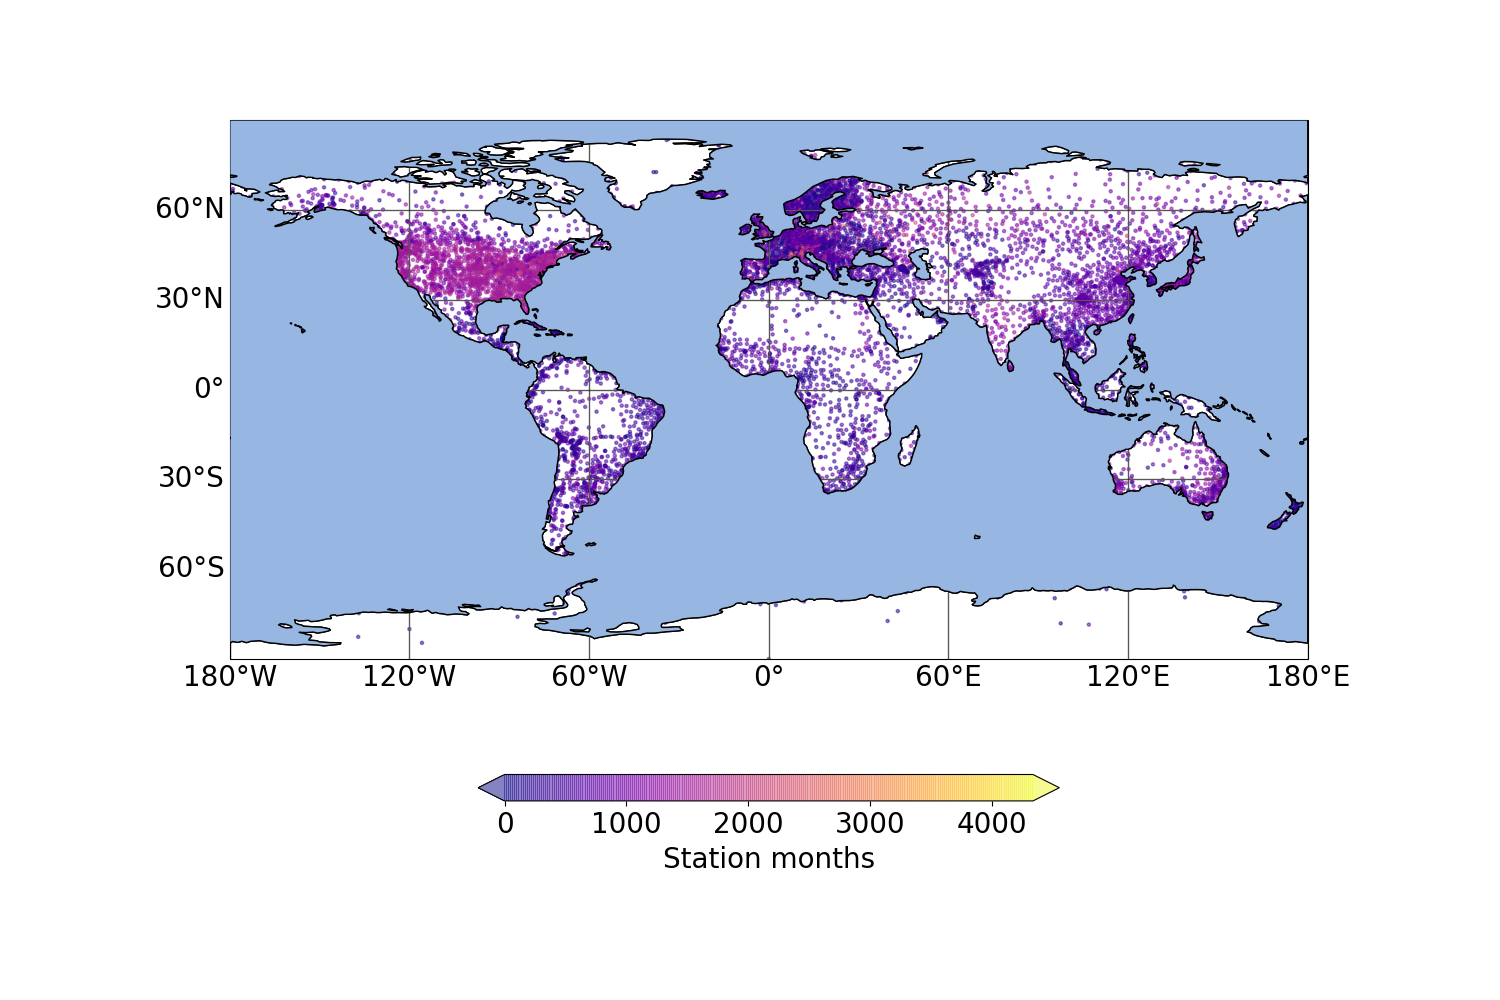
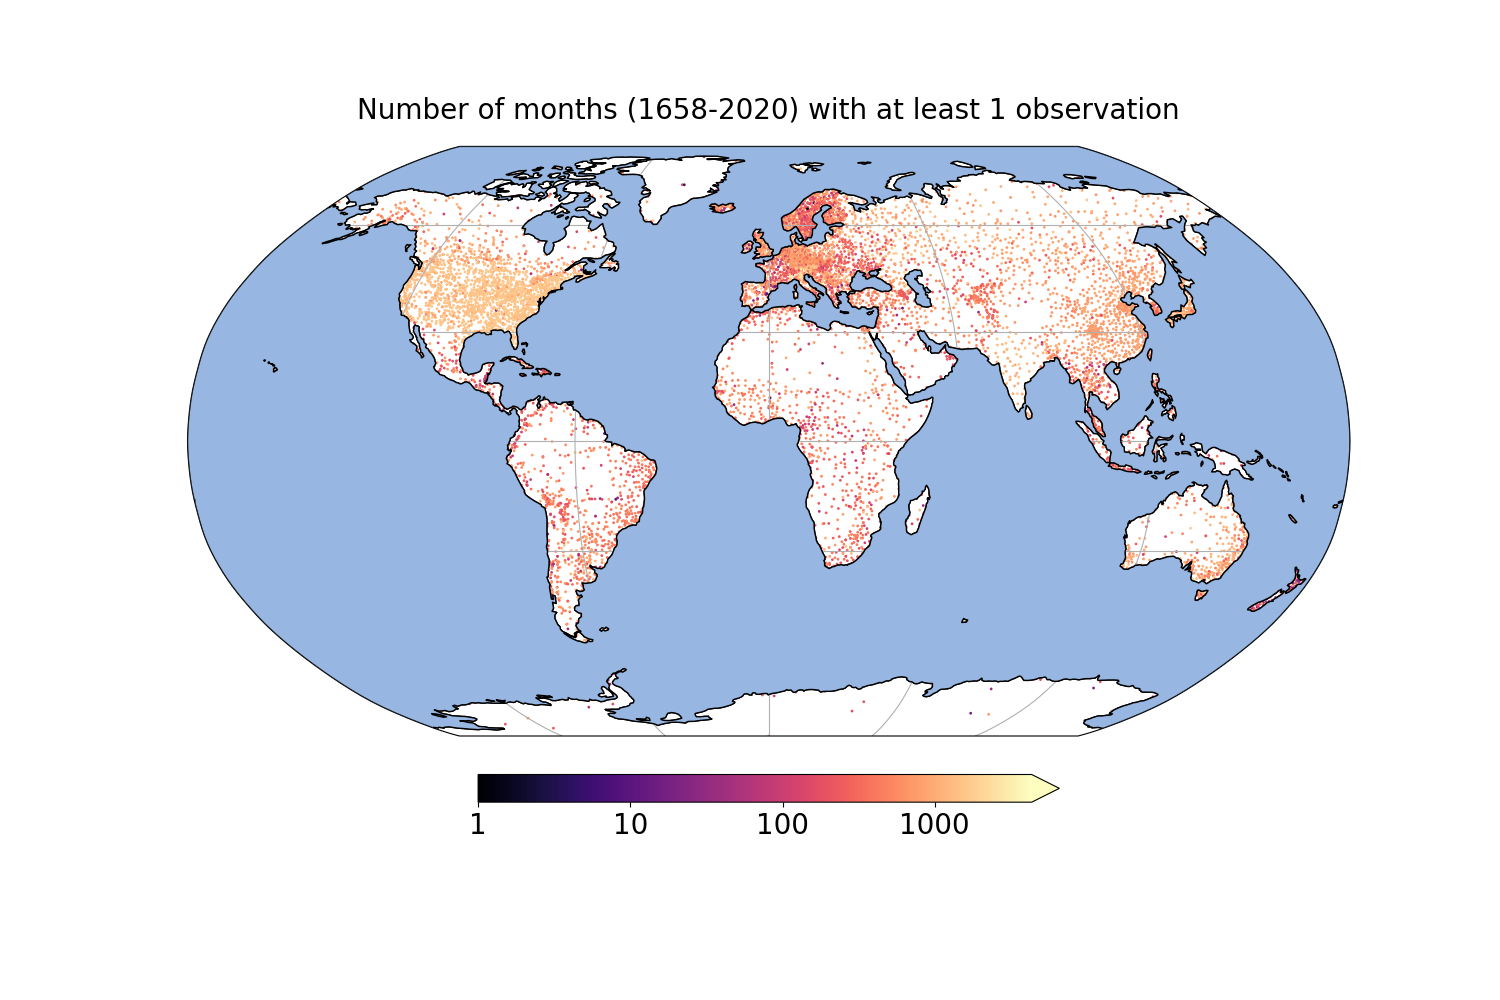
Calculation and Robinson projection of land stations with at least 1 monthly value. In analogy to the ocean data plot from David Berry in R.

Changed region(s): [[0.092, 0.093, 0.92, 0.744], [0.3067, 0.775, 0.7053, 0.868], [0.644, 0.713, 0.6747, 0.744]]

diff --git a/plot-prelim-stations.py b/plot-prelim-stations.py
@@ -4,8 +4,8 @@
 #------------------------------------------------------------------------------
 # PROGRAM: plot-prelim-stations.py
 #------------------------------------------------------------------------------
-# Version 0.18
-# 23 October, 2020
+# Version 0.19
+# 25 October, 2020
 # Michael Taylor
 # https://patternizer.github.io
 # patternizer AT gmail DOT com
@@ -17,6 +17,8 @@
 # Dataframe libraries:
 import numpy as np
 import numpy.ma as ma
+from scipy.interpolate import griddata
+from scipy import spatial
 from mod import Mod
 import itertools
 import pandas as pd
@@ -2087,13 +2089,11 @@ if plot_station_locations_counts == True:
 
     ds = df_temp.copy()
 
-#   lon = ds['stationlon']
-#   lat = ds['stationlat']
     lon = ds.groupby('stationcode').mean()['stationlon']
     lat = ds.groupby('stationcode').mean()['stationlat']
 
 #   dt = np.sum(ds.groupby(['stationcode','year']).count().iloc[:,0:12],axis=1)
-#    dt = ds.groupby(['stationcode','year']).count().iloc[:,0:12]
+#   dt = ds.groupby(['stationcode','year']).count().iloc[:,0:12]
 
     stationmonths=[]
     for i in range(12):
@@ -2102,24 +2102,26 @@ if plot_station_locations_counts == True:
     stationmonths = np.nansum(stationmonths,axis=0)
 #   plt.plot(ds['stationcode'].unique().astype('int'),stationmonths)    
     
-#   v = np.log10(stationmonths)
-    v = stationmonths
-    x, y = np.meshgrid(lon, lat)
-    
+    df = pd.DataFrame({'lon':lon, 'lat':lat, 'stationmonths':stationmonths})
+    dg = df[df['stationmonths']>0]
+        
+    v = np.log10(stationmonths)
+    v = dg['stationmonths']
+    x, y = np.meshgrid(dg['lon'], dg['lat'])    
+        
     vmin = np.min(v)
-    vmax = 3600
-#   vmax = np.max(v)
+    vmax = np.max(v)
 #   vmin = np.percentile(v,25)
 #   vmax = np.percentile(v,75)
     
     figstr = 'location_map_counts.png'
-    titlestr = 'GloSATp02: station months'
-#   colorbarstr = 'Station months (log10-scale)'
-    colorbarstr = 'Station months'
-    cmap = 'plasma'
+    titlestr = 'Number of months (1658-2020) with at least 1 observation'
+#   colorbarstr = 'Station months'
+    colorbarstr = ''
+    cmap = 'magma'
 
     fig  = plt.figure(figsize=(15,10))
-    projection = 'platecarree'    
+    projection = 'robinson'    
     if projection == 'platecarree': p = ccrs.PlateCarree(central_longitude=0); threshold = 0
     if projection == 'mollweide': p = ccrs.Mollweide(central_longitude=0); threshold = 1e6
     if projection == 'robinson': p = ccrs.Robinson(central_longitude=0); threshold = 0
@@ -2166,14 +2168,14 @@ if plot_station_locations_counts == True:
 #    im.set_clim(vmin,vmax)
        
     ax.add_feature(cartopy.feature.OCEAN, zorder=100, edgecolor='k')
-    plt.scatter(x=lon, y=lat, 
-                c=v, s=5, alpha=0.5,
+    plt.scatter(x=dg['lon'], y=dg['lat'], 
+                c=np.log10(dg['stationmonths']), s=1, alpha=1.0,
                 transform=ccrs.PlateCarree(), cmap=cmap) 
-    cb = plt.colorbar(orientation="horizontal", shrink=0.5, extend='both')
-#    cb = plt.colorbar(im, orientation="horizontal", shrink=0.5, extend='both')
-    cb.set_label(colorbarstr, labelpad=5, fontsize=fontsize)
+    cb = plt.colorbar(orientation="horizontal", shrink=0.5, pad=0.05, extend='max')    
+    cb.set_label(colorbarstr, labelpad=0, fontsize=fontsize)
+    cb.ax.set_xticklabels(['1','10','100','1000']) 
     cb.ax.tick_params(labelsize=fontsize)
-#   plt.title(titlestr, fontsize=fontsize)
+    plt.title(titlestr, fontsize=fontsize, pad=20)
     plt.savefig(figstr)
     plt.close('all')
         
